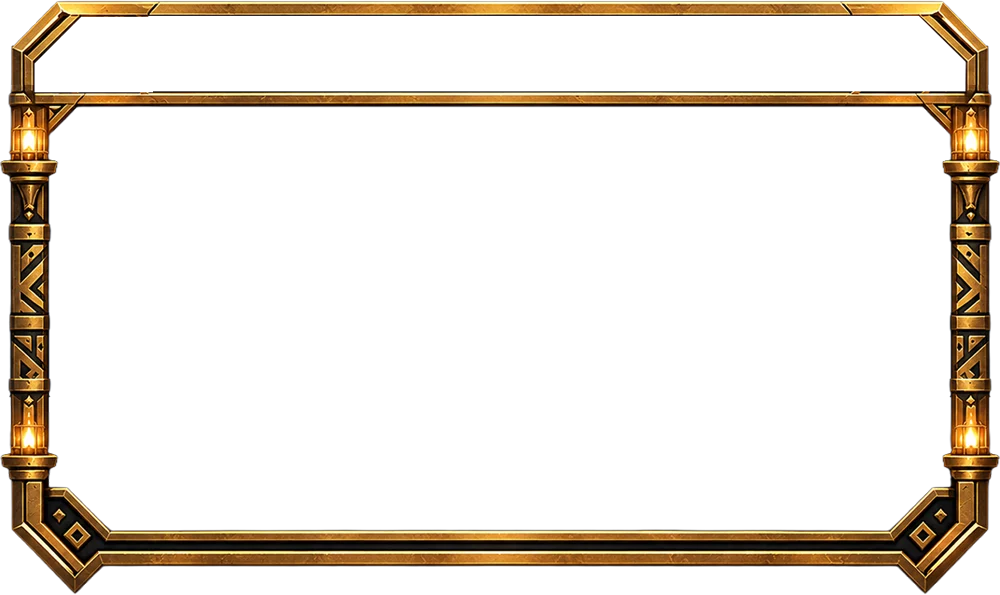
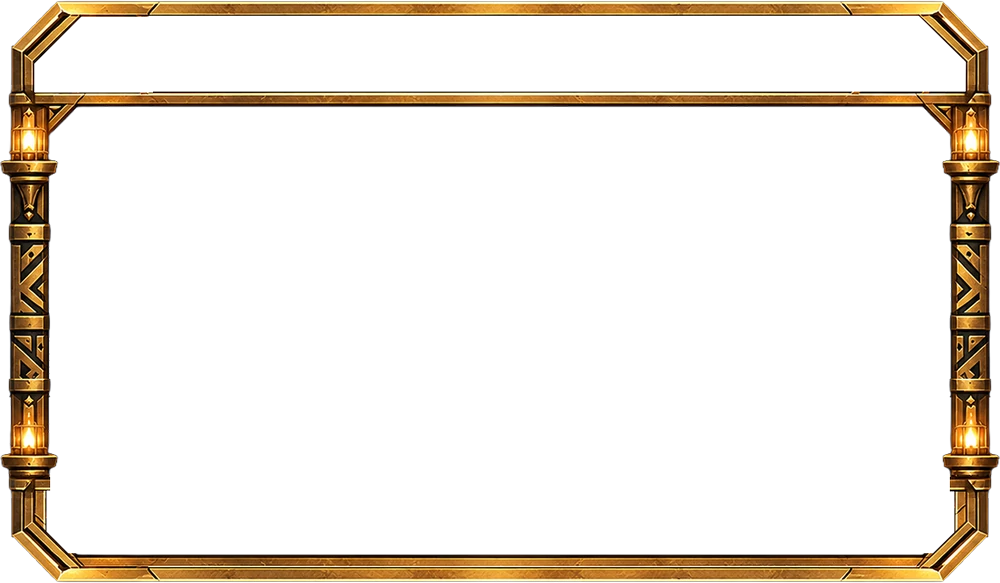
Location frames from the new export; the other side's open Gate plus in light blue
The Location frames (gold, blue, silver for unowned) are the new export:
thinner rails, the same band, a window that runs to 5% from the bottom
instead of 11%. The frames are cropped to their drawn extent (1072x625), the
interior mask is recut from the alpha, and the framed panel's insets follow
(padding 14.4% 5% 4% 4.9% in width terms, the band 15.5% tall). The rule now
sits at the window's foot with room for two lines.

The open slot's plus at Harborlight's Gates is a light blue to match its frames.

Claude-Session: https://claude.ai/code/session_01CdCWBBELLp3cWMWqqhgQtC

Changed region(s): [[0.0, 0.0, 1.0, 1.0], [0.0, 0.0, 0.744, 0.1235]]

diff --git a/src/ui/theme.css b/src/ui/theme.css
@@ -1874,17 +1874,18 @@ body.board-shake .battlefield { animation: board-shake 0.32s cubic-bezier(0.36, 
 /* ---------- The Location frames (art) ---------- */
 /* Three hollow frames on one geometry (a title band over a window). The panel is a little taller than the art
    (1.28 to its 1.68, the frame and its mask stretching with it) to show more of the place: the parchment title sits in the band (2.7% down, 12.5% tall), the meter, the rows and the rule in
-   the window (18.2% down to 11.3% from the bottom, 5% in from the sides), and the drawn chamfer plate steps back. */
-.location.framed { position: relative; aspect-ratio: 1.28; max-height: 100%; flex: 0 1 auto !important; container-type: inline-size; clip-path: none !important; background: transparent !important; padding: 14.2% 5.2% 8.8% 5%; overflow: hidden; --slot: min(10.5cqw, 86px, max(30px, min(4.7vw, 7vh))); --slot-h: calc(var(--slot) * 0.72); }
+   the window (18.4% down to 5.1% from the bottom, 5% in from the sides), and the drawn chamfer plate steps back.
+   (The padding is in width terms, as percentage padding resolves against the width: 14.4% of the width is 18.4% of the height at 1.28.) */
+.location.framed { position: relative; aspect-ratio: 1.28; max-height: 100%; flex: 0 1 auto !important; container-type: inline-size; clip-path: none !important; background: transparent !important; padding: 14.4% 5% 4% 4.9%; overflow: hidden; --slot: min(10.5cqw, 86px, max(30px, min(4.7vw, 7vh))); --slot-h: calc(var(--slot) * 0.72); }
 .location.framed::after { display: none; }
 .location.framed > .loc-frame { position: absolute; inset: 0; z-index: 6; background: center / 100% 100% no-repeat; pointer-events: none; }
 /* The fills, masked to the frame's interior (the mask is cut from the art's alpha): the plate, the photograph from
    under the band to the bottom, the parchment band on top. */
 .location.framed > .loc-fill { position: absolute; inset: 0; z-index: 0; -webkit-mask-size: 100% 100%; mask-size: 100% 100%; -webkit-mask-repeat: no-repeat; mask-repeat: no-repeat; -webkit-mask-position: center; mask-position: center; pointer-events: none; }
 .location.framed .loc-fill-body { position: absolute; inset: 0; background: #0c1a2b; }
-.location.framed .loc-fill .loc-bg { position: absolute; inset: 15.2% 0 0; border-radius: 0; }
-.location.framed .loc-fill-band { position: absolute; top: 0; left: 0; right: 0; height: 15.2%; background: linear-gradient(180deg, #f7efdc, #e9dcc0); border-bottom: 2px solid var(--gold-dark); box-sizing: border-box; }
-.location.framed .art, .location.framed .art.reveal-anim { position: absolute; top: 2.7%; left: 4.7%; right: 4.7%; height: 12.5%; max-height: none; min-height: 0; margin: 0; border-bottom: 0; z-index: 2; background: transparent !important; }
+.location.framed .loc-fill .loc-bg { position: absolute; inset: 15.5% 0 0; border-radius: 0; }
+.location.framed .loc-fill-band { position: absolute; top: 0; left: 0; right: 0; height: 15.5%; background: linear-gradient(180deg, #f7efdc, #e9dcc0); border-bottom: 2px solid var(--gold-dark); box-sizing: border-box; }
+.location.framed .art, .location.framed .art.reveal-anim { position: absolute; top: 2.7%; left: 4.7%; right: 4.7%; height: 12.8%; max-height: none; min-height: 0; margin: 0; border-bottom: 0; z-index: 2; background: transparent !important; }
 .location.framed { overflow: visible; margin-bottom: 8px; }
 /* Five seats and the Threat column share the window's width. */
 .location.framed .slots { padding: 1px 6px 2px; gap: 5px; }
@@ -1955,3 +1956,6 @@ body.board-shake .battlefield { animation: board-shake 0.32s cubic-bezier(0.36, 
 .sky-tag.day .sky-ico { color: #d29a1c; }
 .location .art .sky-tag { flex: none; }
 .sheet-art-cap .sky-tag { margin-left: auto; font-size: 10px; }
+
+/* The other side's Gates: the open slot's plus in a light blue, to match its frames. */
+.gates-strip.theirs .gate-slot.gf:not(.event-slot) { color: rgba(170, 200, 255, 0.9); }
